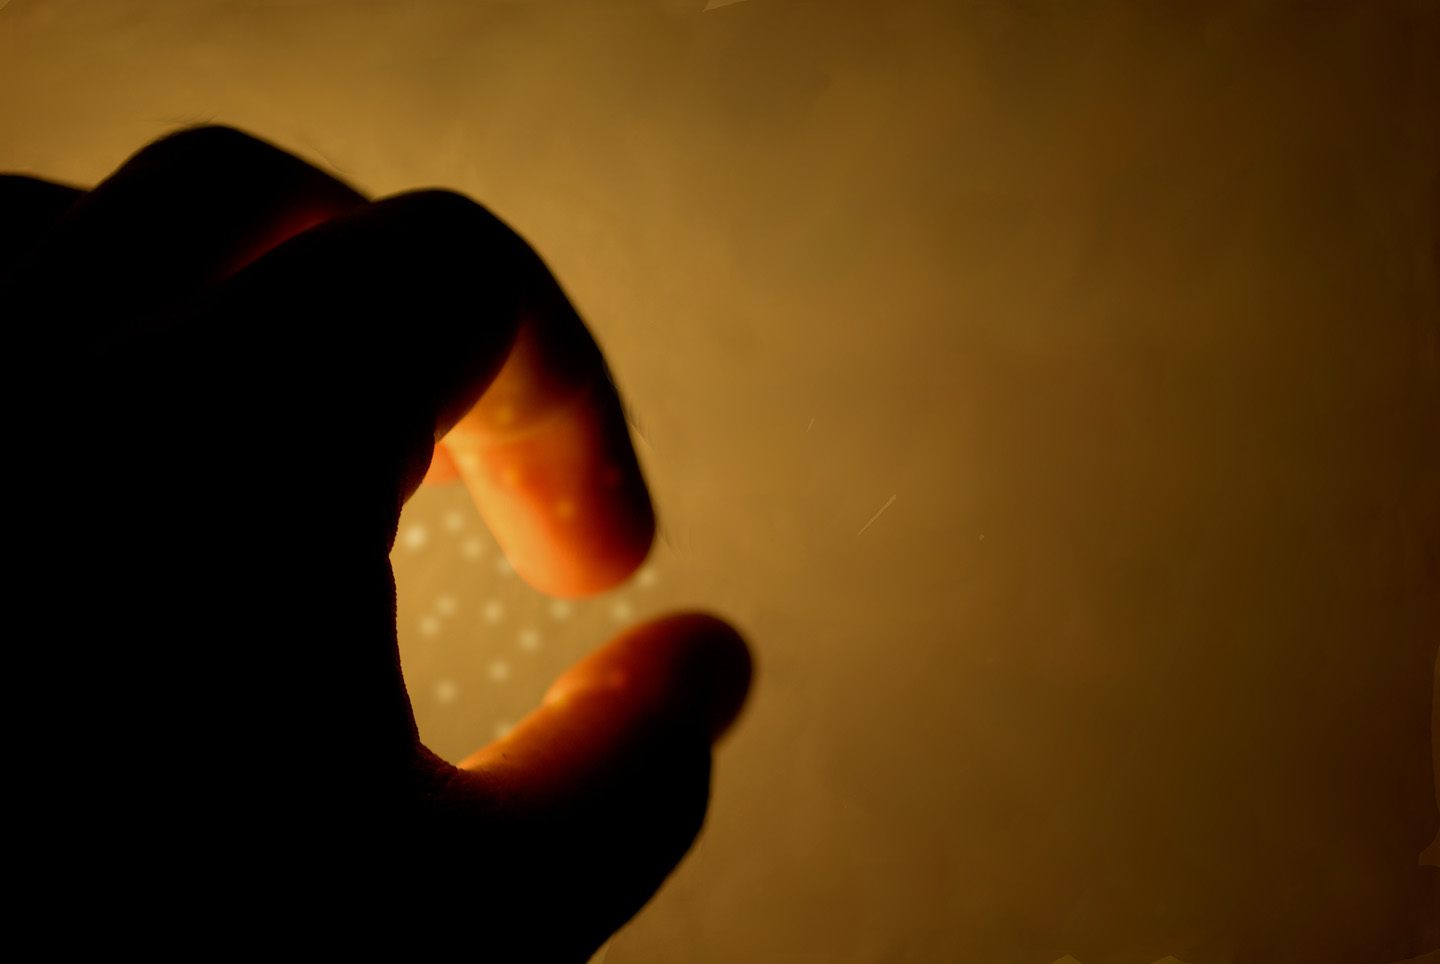
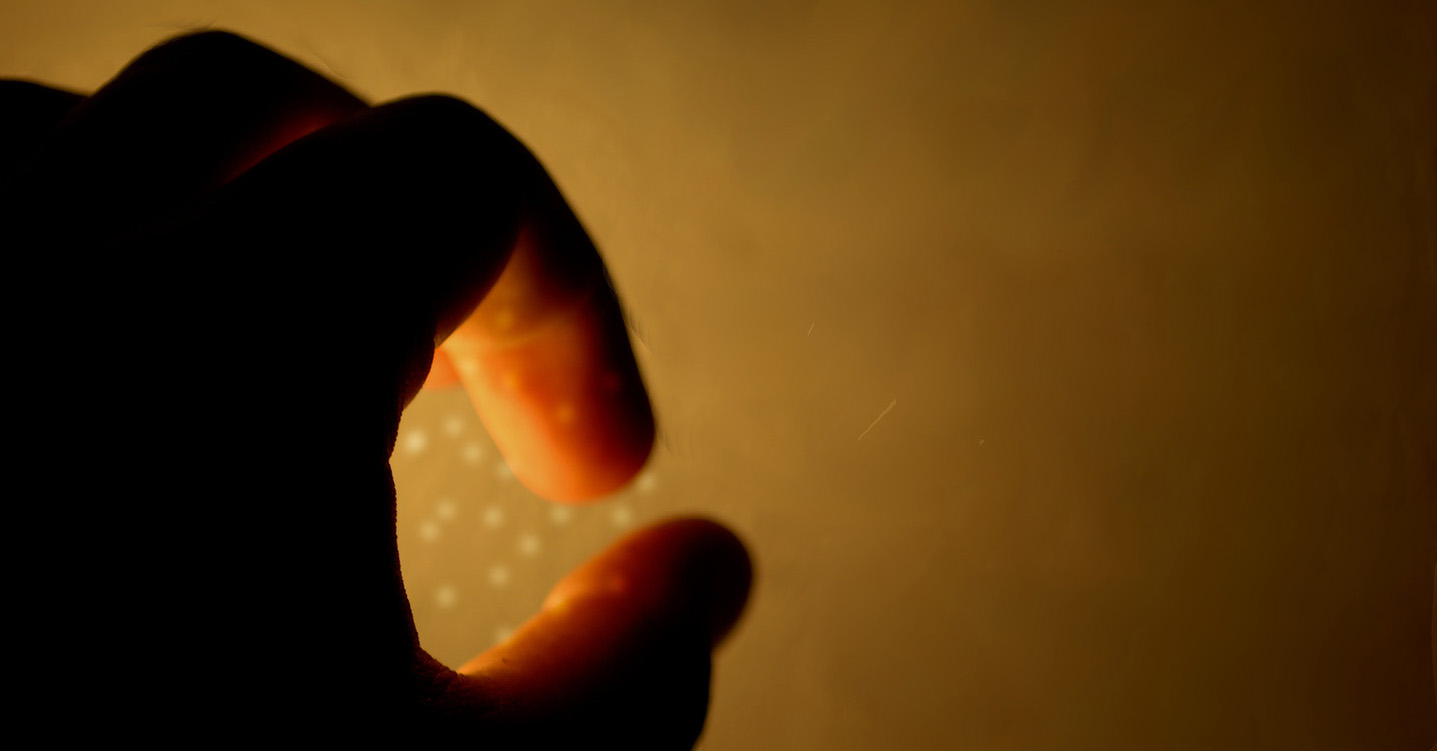
cambio en la imagen

diff --git a/_posts/blog/2014-11-26-magia-proyectos-web-ejemplos-javascript.md b/_posts/blog/2014-11-26-magia-proyectos-web-ejemplos-javascript.md
@@ -6,7 +6,7 @@ subtitulo: Interzonas
 date: 2014-11-26 12:22:00
 tipo: blog
 categories: blog
-image: magia.png
+image: magia.jpg
 published: true
 big: 1
 columna: 0
